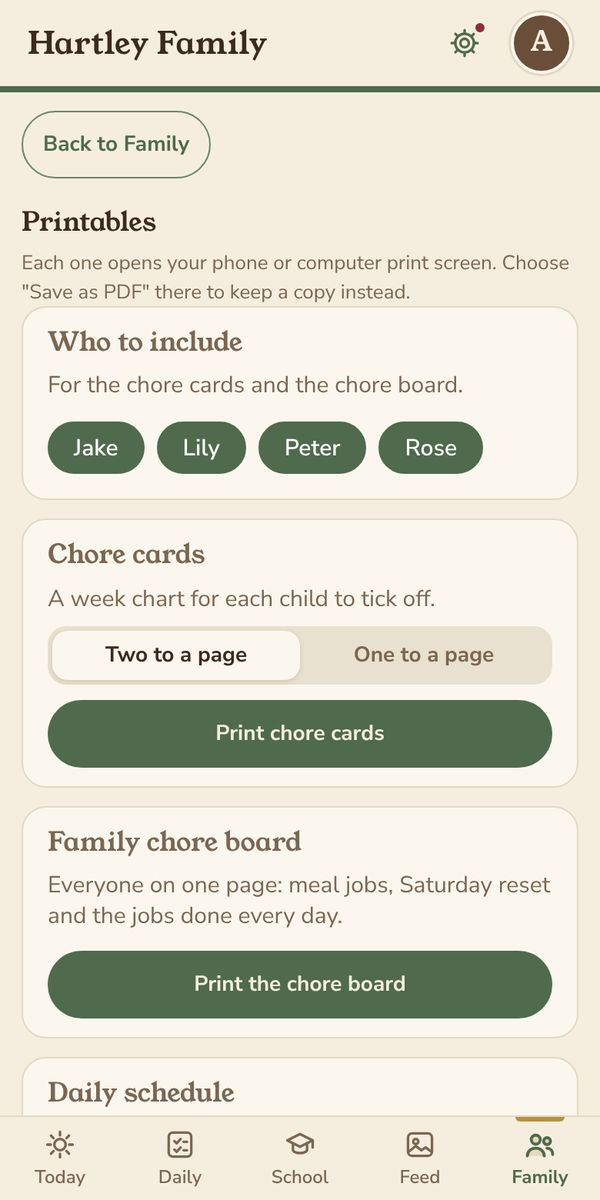
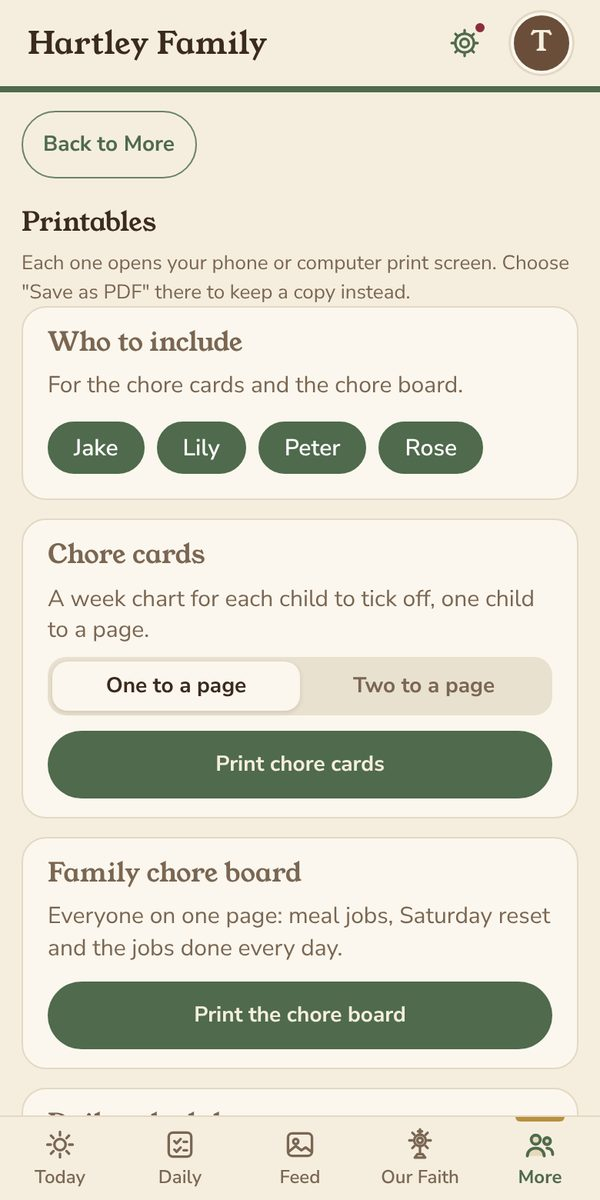
Retake app pictures with the new bottom bar (#38)
* Retake app pictures with the new bottom bar (kid screens)

Claude-Session: https://claude.ai/code/session_015jS7JHYAcYwSkH7EbgyXJr

* Bump CSS version on the blog post too

Claude-Session: https://claude.ai/code/session_015jS7JHYAcYwSkH7EbgyXJr

* Retake parent screens from Hartley with the new bottom bar

Claude-Session: https://claude.ai/code/session_015jS7JHYAcYwSkH7EbgyXJr

---------

diff --git a/features.html b/features.html
@@ -15,7 +15,7 @@
 <meta charset="utf-8"><meta name="viewport" content="width=device-width, initial-scale=1">
 <title>Features | My Domestic Church</title><meta name="description" content="What is inside a My Domestic Church family site.">
 <meta property="og:type" content="website"><meta property="og:site_name" content="My Domestic Church"><meta property="og:title" content="Features | My Domestic Church"><meta property="og:description" content="What is inside a My Domestic Church family site."><meta property="og:url" content="https://mydomesticchurch.org/features"><meta property="og:image" content="https://mydomesticchurch.org/logo/share.jpg"><meta name="twitter:card" content="summary_large_image"><meta name="theme-color" content="#566B4F">
-<link rel="stylesheet" href="/style.css?v=13"><link rel="stylesheet" href="/header.css?v=2"></head><body>
+<link rel="stylesheet" href="/style.css?v=14"><link rel="stylesheet" href="/header.css?v=2"></head><body>
 <div class="top"><div class="wrap">
   <a class="logo" href="/"><img src="/logo/crest-shield.svg" alt="">My Domestic Church</a>
   <nav class="mnav" aria-label="Main">
@@ -31,7 +31,7 @@
 <h1>Everything your household needs, nothing it doesn't</h1>
 <p class="lede">Every feature has its own On/Off switch, so your family sees only what you choose. Screens show sample family data.</p></div>
 <div class="feats">
-<article class="feat"><div class="ftext"><h2>Prayer</h2><p>A prayer book in English and Latin with search and favorites, a guided Rosary and other guided devotions, and a family prayer list. The liturgical season and feast days appear through the app, with a button to the day's Mass readings.</p></div><div class="phone"><div class="frame"><div class="screen"><img src="/shots/prayer.jpg" alt="The Prayers page"></div></div></div></article>
+<article class="feat"><div class="ftext"><h2>Prayer</h2><p>A prayer book in English and Latin with search and favorites, a guided Rosary and other guided devotions, and a family prayer list. The liturgical season and feast days appear through the app, with a button to the day's Mass readings.</p></div><div class="phone"><div class="frame"><div class="screen"><img src="/shots/prayer.jpg" alt="The guided Rosary on the Our Faith tab"></div></div></div></article>
 <article class="feat flip"><div class="ftext"><h2>School</h2><p>Courses for each child spread over your school days, with assignments, due dates and a week view. Each child sees only their own work, and parents see who is on pace or behind. Attendance fills itself in as lessons are checked off, and you can print a year report for each child.</p></div><div class="phone"><div class="frame"><div class="screen"><img src="/shots/school-phone.jpg" alt="The School page"></div></div></div></article>
 <article class="feat nophone"><div class="ftext"><h2>Chores &amp; dinner</h2><p>Daily chore lists and printable charts for each child, and a parent view to see who is behind. If you like, add deadlines, extra jobs for points and a family store (<a href="/rewards">how rewards work</a>). A dinner plan shows who cooks and who does the dishes, with reminders.</p></div></article>
 <article class="feat"><div class="ftext"><h2>Today</h2><p>A quick look at the day for whoever is looking: what is happening now, what needs them, and dinner, under a family photo of your choosing. Kids see their school and chores first; parents see who needs a look.</p></div><div class="phone"><div class="frame"><div class="screen"><img src="/shots/today.jpg" alt="The Today screen"></div></div></div></article>

diff --git a/help.html b/help.html
@@ -15,7 +15,7 @@
 <meta charset="utf-8"><meta name="viewport" content="width=device-width, initial-scale=1">
 <title>Help | My Domestic Church</title><meta name="description" content="Answers and short how-tos for families using the My Domestic Church app: signing in, alerts, chores, school, prayer, printing and more.">
 <meta property="og:type" content="website"><meta property="og:site_name" content="My Domestic Church"><meta property="og:title" content="Help | My Domestic Church"><meta property="og:description" content="Answers and short how-tos for families using the My Domestic Church app: signing in, alerts, chores, school, prayer, printing and more."><meta property="og:url" content="https://mydomesticchurch.org/help"><meta property="og:image" content="https://mydomesticchurch.org/logo/share.jpg"><meta name="twitter:card" content="summary_large_image"><meta name="theme-color" content="#566B4F">
-<link rel="stylesheet" href="/style.css?v=13"><link rel="stylesheet" href="/header.css?v=2"></head><body>
+<link rel="stylesheet" href="/style.css?v=14"><link rel="stylesheet" href="/header.css?v=2"></head><body>
 <div class="top"><div class="wrap">
   <a class="logo" href="/"><img src="/logo/crest-shield.svg" alt="">My Domestic Church</a>
   <nav class="mnav" aria-label="Main">
@@ -191,7 +191,7 @@
 <p>Start each child with a short list. You can add more any time.</p>
 <p>Deadlines, extra chores for points and a family store are there too. They are optional and stay off until you turn them on. <a href="/rewards">How rewards work</a>.</p>
 </div>
-<figure class="shot"><img src="/help/img/chore-settings.jpg" alt="Chore settings, with chore lists, deadlines and done-by times for morning, afternoon and dinner" width="600" height="1200" loading="lazy"></figure>
+<figure class="shot"><img src="/help/img/chore-settings.jpg" alt="Chore settings, with chore lists, the Rewards switch and done-by times for morning, afternoon and dinner" width="600" height="1200" loading="lazy"></figure>
 </div></details>
 </section>
 
@@ -226,7 +226,7 @@
 <ol class="how"><li>Tap the <strong>Our Faith</strong> tab.</li><li>Tap <strong>Start</strong> on the Rosary or another devotion to pray it one step at a time.</li></ol>
 <p>Tap the star next to a prayer to keep it in your favorites and on Today. The prayer book has the common prayers in English and Latin.</p>
 </div>
-<figure class="shot"><img src="/help/img/prayers.jpg" alt="The Prayers page with guided devotions such as the Holy Rosary, each with a Start button" width="600" height="1200" loading="lazy"></figure>
+<figure class="shot"><img src="/help/img/prayers.jpg" alt="The Our Faith tab with the Holy Bible, Our prayers and guided devotions such as the Holy Rosary, each with a Start button" width="600" height="1200" loading="lazy"></figure>
 </div></details>
 
 <details id="our-prayers"><summary>Can we keep a list of who we are praying for?</summary><div class="ans">

diff --git a/rewards.html b/rewards.html
@@ -15,7 +15,7 @@
 <meta charset="utf-8"><meta name="viewport" content="width=device-width, initial-scale=1">
 <title>Rewards &amp; store | My Domestic Church</title><meta name="description" content="How chores, deadlines, points and the family store work in the My Domestic Church app. All optional.">
 <meta property="og:type" content="website"><meta property="og:site_name" content="My Domestic Church"><meta property="og:title" content="Rewards &amp; store | My Domestic Church"><meta property="og:description" content="How chores, deadlines, points and the family store work in the My Domestic Church app. All optional."><meta property="og:url" content="https://mydomesticchurch.org/rewards"><meta property="og:image" content="https://mydomesticchurch.org/logo/share.jpg"><meta name="twitter:card" content="summary_large_image"><meta name="theme-color" content="#566B4F">
-<link rel="stylesheet" href="/style.css?v=13"><link rel="stylesheet" href="/header.css?v=2"></head><body>
+<link rel="stylesheet" href="/style.css?v=14"><link rel="stylesheet" href="/header.css?v=2"></head><body>
 <div class="top"><div class="wrap">
   <a class="logo" href="/"><img src="/logo/crest-shield.svg" alt="">My Domestic Church</a>
   <nav class="mnav" aria-label="Main">

diff --git a/screens.html b/screens.html
@@ -15,7 +15,7 @@
 <meta charset="utf-8"><meta name="viewport" content="width=device-width, initial-scale=1">
 <title>Screens and family life | My Domestic Church</title><meta name="description" content="Why this app is built to be checked quickly and put down.">
 <meta property="og:type" content="website"><meta property="og:site_name" content="My Domestic Church"><meta property="og:title" content="Screens and family life | My Domestic Church"><meta property="og:description" content="Why this app is built to be checked quickly and put down."><meta property="og:url" content="https://mydomesticchurch.org/screens"><meta property="og:image" content="https://mydomesticchurch.org/logo/share.jpg"><meta name="twitter:card" content="summary_large_image"><meta name="theme-color" content="#566B4F">
-<link rel="stylesheet" href="/style.css?v=13"><link rel="stylesheet" href="/header.css?v=2"></head><body>
+<link rel="stylesheet" href="/style.css?v=14"><link rel="stylesheet" href="/header.css?v=2"></head><body>
 <div class="top"><div class="wrap">
   <a class="logo" href="/"><img src="/logo/crest-shield.svg" alt="">My Domestic Church</a>
   <nav class="mnav" aria-label="Main">

diff --git a/our-story.html b/our-story.html
@@ -15,7 +15,7 @@
 <meta charset="utf-8"><meta name="viewport" content="width=device-width, initial-scale=1">
 <title>Our story | My Domestic Church</title><meta name="description" content="Why Darwin, a homeschool dad, built the My Domestic Church app.">
 <meta property="og:type" content="website"><meta property="og:site_name" content="My Domestic Church"><meta property="og:title" content="Our story | My Domestic Church"><meta property="og:description" content="Why Darwin, a homeschool dad, built the My Domestic Church app."><meta property="og:url" content="https://mydomesticchurch.org/our-story"><meta property="og:image" content="https://mydomesticchurch.org/logo/share.jpg"><meta name="twitter:card" content="summary_large_image"><meta name="theme-color" content="#566B4F">
-<link rel="stylesheet" href="/style.css?v=13"><link rel="stylesheet" href="/header.css?v=2"></head><body>
+<link rel="stylesheet" href="/style.css?v=14"><link rel="stylesheet" href="/header.css?v=2"></head><body>
 <div class="top"><div class="wrap">
   <a class="logo" href="/"><img src="/logo/crest-shield.svg" alt="">My Domestic Church</a>
   <nav class="mnav" aria-label="Main">

diff --git a/blog/a-stay-at-home-dads-confession.html b/blog/a-stay-at-home-dads-confession.html
@@ -16,7 +16,7 @@
 <title>A stay-at-home dad's confession | My Domestic Church</title><meta name="description" content="Why Darwin, a stay-at-home dad, started the My Domestic Church app."><meta name="theme-color" content="#566B4F">
 <meta property="og:title" content="A stay-at-home dad's confession"><meta property="og:image" content="https://mydomesticchurch.org/blog/img/confession-header.jpg">
 <meta property="og:type" content="article"><meta property="og:site_name" content="My Domestic Church"><meta property="og:description" content="Why Darwin, a stay-at-home dad, started the My Domestic Church app."><meta property="og:url" content="https://mydomesticchurch.org/blog/a-stay-at-home-dads-confession"><meta name="twitter:card" content="summary_large_image">
-<link rel="stylesheet" href="/style.css?v=13"><link rel="stylesheet" href="/header.css?v=2"></head><body>
+<link rel="stylesheet" href="/style.css?v=14"><link rel="stylesheet" href="/header.css?v=2"></head><body>
 <div class="top"><div class="wrap">
   <a class="logo" href="/"><img src="/logo/crest-shield.svg" alt="">My Domestic Church</a>
   <nav class="mnav" aria-label="Main">

diff --git a/privacy.html b/privacy.html
@@ -15,7 +15,7 @@
 <meta charset="utf-8"><meta name="viewport" content="width=device-width, initial-scale=1">
 <title>Privacy | My Domestic Church</title><meta name="description" content="How My Domestic Church treats your family's information.">
 <meta property="og:type" content="website"><meta property="og:site_name" content="My Domestic Church"><meta property="og:title" content="Privacy | My Domestic Church"><meta property="og:description" content="How My Domestic Church treats your family's information."><meta property="og:url" content="https://mydomesticchurch.org/privacy"><meta property="og:image" content="https://mydomesticchurch.org/logo/share.jpg"><meta name="twitter:card" content="summary_large_image"><meta name="theme-color" content="#566B4F">
-<link rel="stylesheet" href="/style.css?v=13"><link rel="stylesheet" href="/header.css?v=2"></head><body>
+<link rel="stylesheet" href="/style.css?v=14"><link rel="stylesheet" href="/header.css?v=2"></head><body>
 <div class="top"><div class="wrap">
   <a class="logo" href="/"><img src="/logo/crest-shield.svg" alt="">My Domestic Church</a>
   <nav class="mnav" aria-label="Main">

diff --git a/blog.html b/blog.html
@@ -15,7 +15,7 @@
 <meta charset="utf-8"><meta name="viewport" content="width=device-width, initial-scale=1">
 <title>Blog | My Domestic Church</title><meta name="description" content="Stories and notes from a Catholic homeschool family.">
 <meta property="og:type" content="website"><meta property="og:site_name" content="My Domestic Church"><meta property="og:title" content="Blog | My Domestic Church"><meta property="og:description" content="Stories and notes from a Catholic homeschool family."><meta property="og:url" content="https://mydomesticchurch.org/blog"><meta property="og:image" content="https://mydomesticchurch.org/logo/share.jpg"><meta name="twitter:card" content="summary_large_image"><meta name="theme-color" content="#566B4F">
-<link rel="stylesheet" href="/style.css?v=13"><link rel="stylesheet" href="/header.css?v=2"></head><body>
+<link rel="stylesheet" href="/style.css?v=14"><link rel="stylesheet" href="/header.css?v=2"></head><body>
 <div class="top"><div class="wrap">
   <a class="logo" href="/"><img src="/logo/crest-shield.svg" alt="">My Domestic Church</a>
   <nav class="mnav" aria-label="Main">

diff --git a/index.html b/index.html
@@ -17,7 +17,7 @@
 <meta name="description" content="Private family sites for Catholic homeschool families.">
 <meta property="og:type" content="website"><meta property="og:site_name" content="My Domestic Church"><meta property="og:title" content="My Domestic Church"><meta property="og:description" content="Private family sites for Catholic homeschool families."><meta property="og:url" content="https://mydomesticchurch.org/"><meta property="og:image" content="https://mydomesticchurch.org/logo/share.jpg"><meta name="twitter:card" content="summary_large_image">
 <meta name="theme-color" content="#2F3D2B">
-<link rel="stylesheet" href="/home.css?v=6"><link rel="stylesheet" href="/header.css?v=2"></head><body>
+<link rel="stylesheet" href="/home.css?v=7"><link rel="stylesheet" href="/header.css?v=2"></head><body>
 <div class="top"><div class="wrap">
  <a class="logo" href="/"><img src="/logo/crest-shield.svg" alt="">My Domestic Church</a>
  <nav class="mnav" aria-label="Main">

diff --git a/404.html b/404.html
@@ -14,7 +14,7 @@
 </script>
 <meta charset="utf-8"><meta name="viewport" content="width=device-width, initial-scale=1">
 <title>Page not found | My Domestic Church</title><meta name="robots" content="noindex"><meta name="theme-color" content="#566B4F">
-<link rel="stylesheet" href="/style.css?v=13"><link rel="stylesheet" href="/header.css?v=2"></head><body>
+<link rel="stylesheet" href="/style.css?v=14"><link rel="stylesheet" href="/header.css?v=2"></head><body>
 <div class="top"><div class="wrap">
   <a class="logo" href="/"><img src="/logo/crest-shield.svg" alt="">My Domestic Church</a>
   <nav class="mnav" aria-label="Main">
